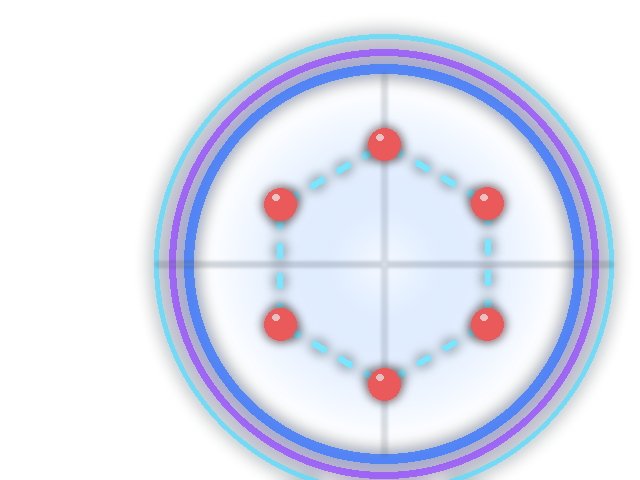
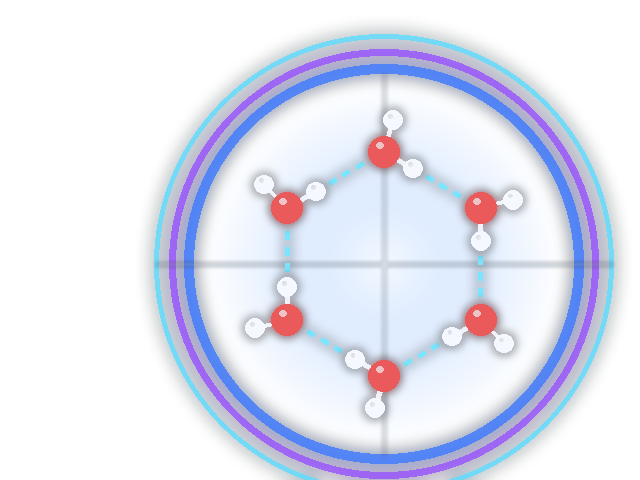
Level-tegels scheikundig juist: hele watermoleculen en H-bruggen vanaf H
- Level 2: H-brug loopt duidelijk van een H-atoom naar het O-atoom van het andere molecuul
- Level 3: zeshoek van hele watermoleculen volgens de ijsregels (één H langs de ring met
  H-brug naar het volgende O, tweede H naar buiten)
- Level 4: links nog ijsrooster, rechts losgekomen, dicht opeengepakte watermoleculen
  (geen losse O-atomen meer, dus geen "ontleding")
- Level 6: dicht water met belletjes; hele moleculen komen los en stijgen op

Changed region(s): [[0.375, 0.2188, 0.8438, 0.9062]]

diff --git a/Tools/Tegels/maak_tegels.py b/Tools/Tegels/maak_tegels.py
@@ -66,14 +66,23 @@ def atoom(d, x, y, r, kleur, label=None, font=None):
         d.text((x, y), label, font=font, fill=(255, 255, 255, 255), anchor="mm")
 
 
+def teken_molecuul(d, o, hs, schaal, font=None, labels=False):
+    """Watermolecuul: O-atoom op o, H-atomen op de plekken hs (met O–H-staafjes)."""
+    for (hx, hy) in hs:
+        d.line([o[0], o[1], hx, hy], fill=WIT + (235,), width=max(2, int(8 * schaal)))
+        atoom(d, hx, hy, 13 * schaal, WIT, "H" if labels else None, font)
+    atoom(d, o[0], o[1], 22 * schaal, ROOD, "O" if labels else None, font)
+
+
 def molecuul(d, x, y, schaal, hoek, font=None, labels=True):
-    """H₂O: O in het midden, twee H op 104,5°."""
+    """H2O: O op (x, y), twee H op 104,5°; 'hoek' is de richting midden tussen de twee H-atomen.
+    Geeft de plek van O en van beide H-atomen terug."""
+    hs = []
     for s in (-1, 1):
         a = math.radians(hoek + s * 52.25)
-        hx, hy = x + math.cos(a) * 46 * schaal, y + math.sin(a) * 46 * schaal
-        d.line([x, y, hx, hy], fill=WIT + (230,), width=max(2, int(8 * schaal)))
-        atoom(d, hx, hy, 13 * schaal, WIT, "H" if labels else None, font)
-    atoom(d, x, y, 22 * schaal, ROOD, "O" if labels else None, font)
+        hs.append((x + math.cos(a) * 46 * schaal, y + math.sin(a) * 46 * schaal))
+    teken_molecuul(d, (x, y), hs, schaal, font, labels)
+    return (x, y), hs
 
 
 def brug(d, a, b, dikte=5, streepjes=5):
@@ -82,6 +91,45 @@ def brug(d, a, b, dikte=5, streepjes=5):
         t0, t1 = (i + 0.2) / streepjes, (i + 0.7) / streepjes
         d.line([x1 + (x2 - x1) * t0, y1 + (y2 - y1) * t0, x1 + (x2 - x1) * t1, y1 + (y2 - y1) * t1],
                fill=CYAAN + (255,), width=dikte)
+
+
+def h_brug(d, h, o, rh, ro, dikte=6, streepjes=5):
+    """Waterstofbrug van het H-atoom h naar het O-atoom o (stippellijn tussen de randen van de bolletjes)."""
+    dx, dy = o[0] - h[0], o[1] - h[1]
+    L = math.hypot(dx, dy)
+    ux, uy = dx / L, dy / L
+    brug(d, (h[0] + ux * (rh + 3), h[1] + uy * (rh + 3)), (o[0] - ux * (ro + 3), o[1] - uy * (ro + 3)), dikte, streepjes)
+
+
+def ijsring(d, db, cx, cy, R, schaal, hoeken):
+    """Stuk ijsrooster van hele watermoleculen (ijsregels): elk O-atoom levert één H langs de ring
+    naar het volgende O-atoom (met een H-brug), en het tweede H wijst naar buiten."""
+    pts = [(cx + math.cos(math.radians(a)) * R, cy + math.sin(math.radians(a)) * R) for a in hoeken]
+    oh = 46 * schaal
+    for k, o in enumerate(pts):
+        if k + 1 < len(pts) or len(pts) == 6:
+            nxt = pts[(k + 1) % len(pts)]
+            ex, ey = nxt[0] - o[0], nxt[1] - o[1]
+        else:                                          # laatste van een open stuk: H wijst naar waar de ring verder zou gaan
+            prv = pts[k - 1]
+            ex, ey = o[0] - prv[0], o[1] - prv[1]
+            a = math.atan2(ey, ex) + math.radians(60)
+            ex, ey = math.cos(a), math.sin(a)
+            nxt = None
+        L = math.hypot(ex, ey); ex, ey = ex / L, ey / L
+        h1 = (o[0] + ex * oh, o[1] + ey * oh)
+        # tweede H: 104,5° gedraaid, naar buiten de ring
+        bx, by = o[0] - cx, o[1] - cy
+        beste = None
+        for teken in (1, -1):
+            a = math.atan2(ey, ex) + teken * math.radians(104.5)
+            kand = (math.cos(a), math.sin(a))
+            if beste is None or kand[0] * bx + kand[1] * by > beste[0] * bx + beste[1] * by:
+                beste = kand
+        h2 = (o[0] + beste[0] * oh, o[1] + beste[1] * oh)
+        teken_molecuul(d, o, [h1, h2], schaal)
+        if nxt is not None:
+            h_brug(db, h1, nxt, 13 * schaal, 22 * schaal, max(4, int(7 * schaal)), 3)
 
 
 def tegel(n):
@@ -99,24 +147,31 @@ def tegel(n):
         d.text((cx + 58, cy - 48), "δ−", font=f_klein, fill=(255, 190, 190, 255))
         d.text((cx - 140, cy + 92), "δ+", font=f_klein, fill=(200, 230, 255, 255))
         d.text((cx + 115, cy + 92), "δ+", font=f_klein, fill=(200, 230, 255, 255))
-    elif n == 2:    # twee moleculen met een H-brug
-        molecuul(d, cx - 120, cy + 10, 1.3, 20, f_klein)
-        molecuul(d, cx + 110, cy - 20, 1.3, 200, f_klein)
-        brug(db, (cx - 70, cy + 30), (cx + 85, cy - 20), 7, 6)
-    elif n == 3:    # zeshoek uit het ijsrooster
-        pts = [(cx + math.cos(math.radians(60 * k + 30)) * 120, cy + math.sin(math.radians(60 * k + 30)) * 120) for k in range(6)]
-        for k in range(6):
-            brug(db, pts[k], pts[(k + 1) % 6], 6, 4)
-        for (x, y) in pts:
-            atoom(d, x, y, 16, ROOD)
-    elif n == 4:    # rooster dat uit elkaar valt
-        pts = [(cx - 60 + math.cos(math.radians(60 * k + 30)) * 90, cy + math.sin(math.radians(60 * k + 30)) * 90) for k in range(6)]
-        for k in range(3):
-            brug(db, pts[k], pts[(k + 1) % 6], 6, 3)
-        for (x, y) in pts:
-            atoom(d, x, y, 13, ROOD)
-        for i, (x, y, h) in enumerate([(cx + 120, cy - 70, 20), (cx + 150, cy + 40, 140), (cx + 70, cy + 120, 260)]):
-            molecuul(d, x, y, 0.8, h, labels=False)
+    elif n == 2:    # H-brug: van een H-atoom van het ene molecuul naar het O-atoom van het andere
+        s = 1.3
+        o1, hs1 = molecuul(d, cx - 160, cy + 40, s, 37, f_klein)
+        h = hs1[0]                                         # dit H wijst naar het andere molecuul
+        ux, uy = h[0] - o1[0], h[1] - o1[1]
+        L = math.hypot(ux, uy); ux, uy = ux / L, uy / L
+        o2 = (h[0] + ux * 150, h[1] + uy * 150)
+        molecuul(d, o2[0], o2[1], s, math.degrees(math.atan2(uy, ux)), f_klein)
+        h_brug(db, h, o2, 13 * s, 22 * s, 10, 6)
+    elif n == 3:    # zeshoek uit het ijsrooster, van hele watermoleculen
+        ijsring(d, db, cx, cy, 112, 0.72, [60 * k + 30 for k in range(6)])
+    elif n == 4:    # smelten: links nog ijs, rechts losgekomen, dicht opeengepakte watermoleculen
+        ijsring(d, db, cx - 70, cy - 5, 78, 0.55, [90, 150, 210, 270])
+        los = [(cx + 70, cy - 70, 200), (cx + 125, cy - 15, 300), (cx + 60, cy + 10, 40),
+               (cx + 120, cy + 60, 160), (cx + 55, cy + 85, 250), (cx + 5, cy + 60, 110), (cx + 165, cy + 25, 20)]
+        mols = [molecuul(d, x, y, 0.55, h, labels=False) for (x, y, h) in los]
+        for i, (o, hs) in enumerate(mols):                  # een paar korte H-bruggen in de vloeistof
+            for hp in hs:
+                for j, (o2, _) in enumerate(mols):
+                    if i == j: continue
+                    vx, vy = o2[0] - hp[0], o2[1] - hp[1]
+                    afst = math.hypot(vx, vy)
+                    rx, ry = hp[0] - o[0], hp[1] - o[1]
+                    if afst < 58 and (vx * rx + vy * ry) / (afst * math.hypot(rx, ry)) > 0.8:
+                        h_brug(db, hp, o2, 13 * 0.55, 22 * 0.55, 4, 2)
     elif n == 5:    # bekerglas met drijvend ijsblokje
         bx, by, bw, bh = cx - 110, cy - 90, 220, 200
         d.rectangle([bx, by + 70, bx + bw, by + bh], fill=(60, 150, 255, 110))
@@ -124,11 +179,19 @@ def tegel(n):
         d.rectangle([bx + 70, by + 40, bx + 140, by + 100], fill=(225, 245, 255, 235), outline=CYAAN + (255,), width=4)
         d.line([bx, by + 70, bx + bw, by + 70], fill=CYAAN + (255,), width=4)
         d.text((bx + bw + 14, by + 60), "ρ", font=f_groot, fill=(255, 255, 255, 255))
-    elif n == 6:    # koken: belletjes en losse moleculen
-        for (x, y, r) in [(cx - 90, cy + 80, 26), (cx + 20, cy + 40, 18), (cx + 100, cy + 100, 30), (cx - 20, cy - 40, 14)]:
+    elif n == 6:    # koken: dicht water onderin met belletjes; hele moleculen komen los en stijgen op
+        opp = cy + 25
+        d.line([cx - 175, opp, cx + 175, opp], fill=CYAAN + (220,), width=4)
+        for (x, y, r) in [(cx - 40, cy + 95, 24), (cx + 95, cy + 120, 17)]:
             d.ellipse([x - r, y - r, x + r, y + r], outline=CYAAN + (255,), width=4)
-        for (x, y, h) in [(cx - 120, cy - 80, 30), (cx + 110, cy - 60, 200), (cx + 30, cy - 130, 110)]:
-            molecuul(d, x, y, 0.75, h, labels=False)
+        for (x, y, h) in [(cx - 140, cy + 60, 20), (cx - 95, cy + 105, 250), (cx + 20, cy + 60, 130),
+                          (cx + 60, cy + 115, 330), (cx + 140, cy + 70, 200), (cx - 150, cy + 130, 90), (cx + 165, cy + 130, 60)]:
+            molecuul(d, x, y, 0.6, h, labels=False)
+        for (x, y, h) in [(cx - 90, cy - 60, 300), (cx + 60, cy - 105, 210), (cx + 140, cy - 30, 30)]:
+            molecuul(d, x, y, 0.62, h, labels=False)
+            for k in range(1, 4):                               # spoortje: hij komt uit het water
+                rr = 5 - k
+                d.ellipse([x - rr, y + 26 + k * 16 - rr, x + rr, y + 26 + k * 16 + rr], fill=CYAAN + (220 - 55 * k,))
 
     bruggen = gloed(bruggen, 6)
     tek = gloed(tek, 5)
